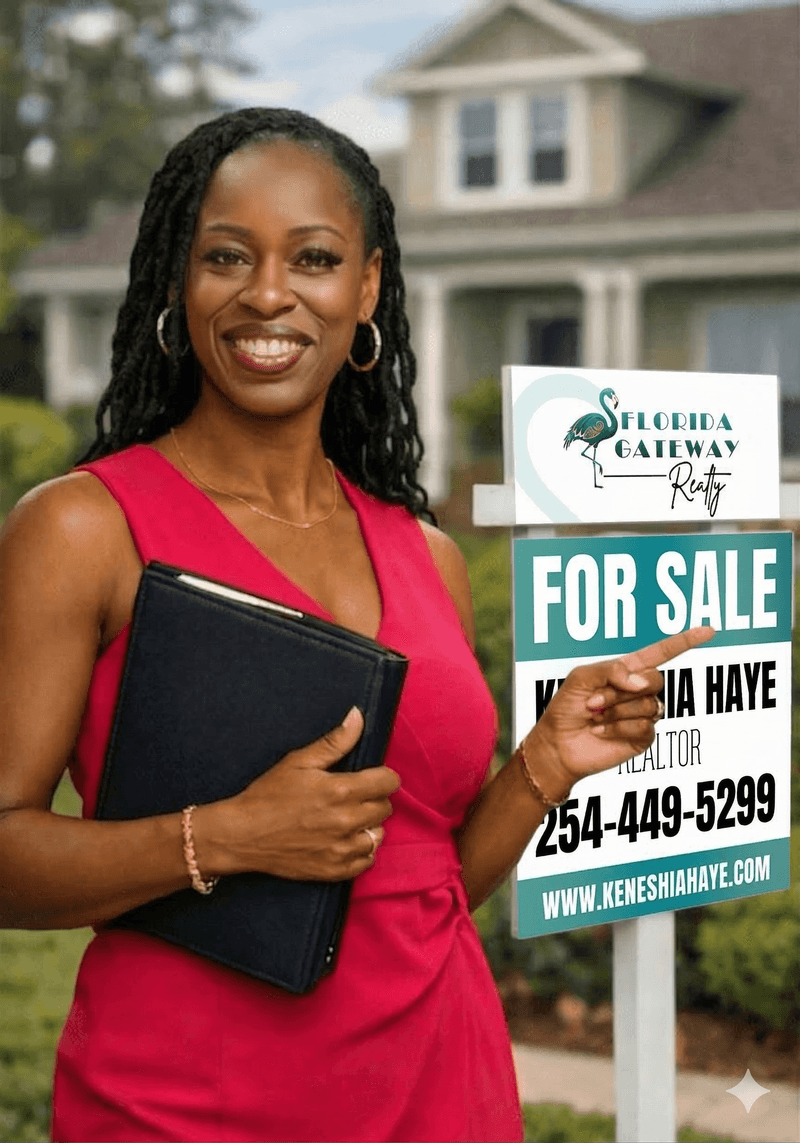
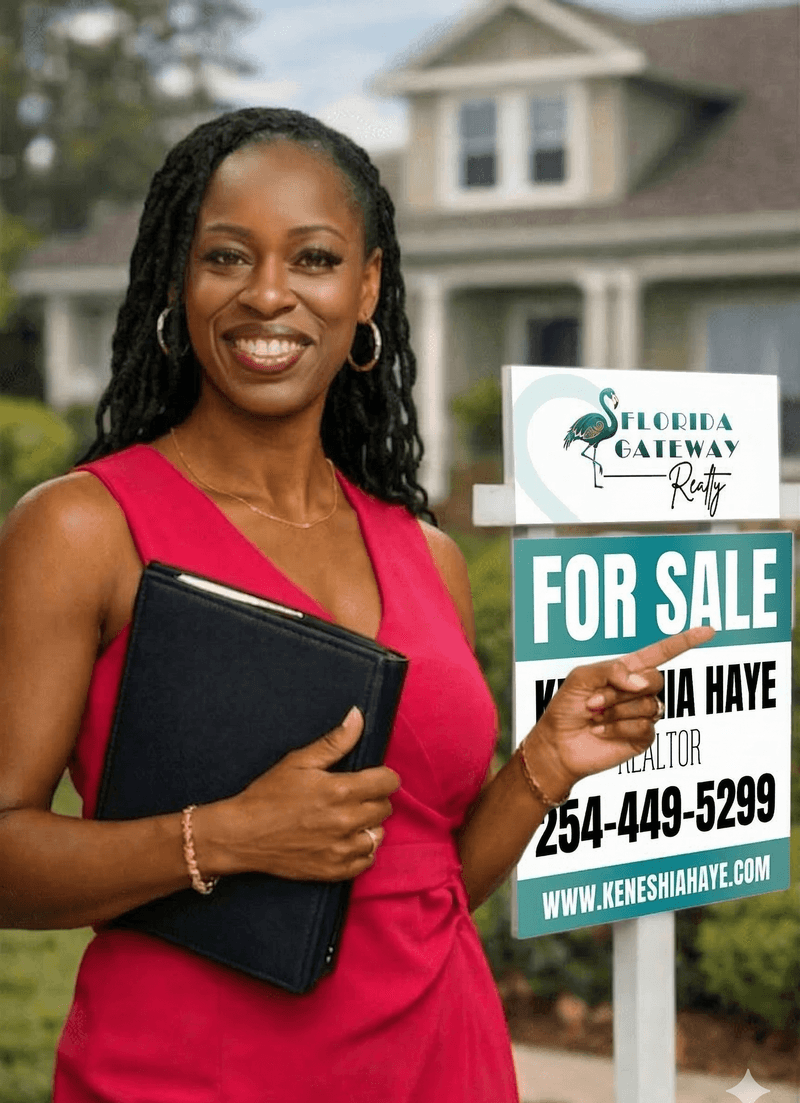
Crop sold-sign photo to remove Gemini watermark from bottom-right corner
Trimmed 40px from the bottom of keneshia-sold-sign.png (800x1143 → 800x1103),
updated height attributes and cache-bust query strings to v=2026031102.

diff --git a/blog/sell-your-home-fast-jacksonville.html b/blog/sell-your-home-fast-jacksonville.html
@@ -7,7 +7,7 @@
   <meta name="description" content="Proven strategies to sell your Jacksonville home quickly and for top dollar. Expert pricing, staging, and marketing tips from veteran REALTOR Keneshia Haye.">
   <meta property="og:title" content="How to Sell Your Home Fast in Jacksonville, FL (2026 Guide)">
   <meta property="og:description" content="Proven strategies to sell your Jacksonville home quickly and for top dollar in 2026.">
-  <meta property="og:image" content="https://keneshiahaye.com/images/keneshia-sold-sign.png?v=2026031101">
+  <meta property="og:image" content="https://keneshiahaye.com/images/keneshia-sold-sign.png?v=2026031102">
   <meta property="og:image:width" content="1200">
   <meta property="og:image:height" content="630">
   <meta property="og:image:alt" content="Keneshia Haye — How to Sell Your Home Fast in Jacksonville">
@@ -21,7 +21,7 @@
   <meta name="twitter:card" content="summary_large_image">
   <meta name="twitter:title" content="How to Sell Your Home Fast in Jacksonville, FL (2026 Guide)">
   <meta name="twitter:description" content="Proven strategies to sell your Jacksonville home quickly and for top dollar.">
-  <meta name="twitter:image" content="https://keneshiahaye.com/images/keneshia-sold-sign.png?v=2026031101">
+  <meta name="twitter:image" content="https://keneshiahaye.com/images/keneshia-sold-sign.png?v=2026031102">
   <link rel="canonical" href="https://keneshiahaye.com/blog/sell-your-home-fast-jacksonville.html">
   <link rel="icon" type="image/png" href="/favicon.png">
   <link rel="apple-touch-icon" href="/apple-touch-icon.png">
@@ -271,7 +271,7 @@
           <div class="lg:sticky lg:top-28 space-y-8">
             <div class="p-6 rounded-2xl glass border border-white/10">
               <div class="flex items-center gap-4 mb-4">
-                <img src="/images/keneshia-sold-sign.png?v=2026031101" alt="Keneshia Haye, REALTOR" class="w-16 h-16 rounded-full object-cover object-top border-2 border-champagne-400/30">
+                <img src="/images/keneshia-sold-sign.png?v=2026031102" alt="Keneshia Haye, REALTOR" class="w-16 h-16 rounded-full object-cover object-top border-2 border-champagne-400/30">
                 <div>
                   <p class="font-bold text-slate-900 dark:text-white">Keneshia Haye</p>
                   <p class="text-sm text-slate-500 dark:text-slate-400">REALTOR &middot; U.S. Veteran</p>

diff --git a/sell.html b/sell.html
@@ -18,7 +18,7 @@
   <meta name="twitter:card" content="summary_large_image">
   <meta name="twitter:title" content="Sell Your Home | Keneshia Haye Real Estate — Jacksonville, FL">
   <meta name="twitter:description" content="Strategic pricing, professional marketing, and expert negotiation for Jacksonville home sellers.">
-  <meta name="twitter:image" content="https://keneshiahaye.com/images/keneshia-sold-sign.png?v=2026031101">
+  <meta name="twitter:image" content="https://keneshiahaye.com/images/keneshia-sold-sign.png?v=2026031102">
   <link rel="canonical" href="https://keneshiahaye.com/sell.html">
   <link rel="icon" type="image/png" href="/favicon.png">
   <link rel="apple-touch-icon" href="/apple-touch-icon.png">  <link rel="preconnect" href="https://fonts.googleapis.com">
@@ -535,7 +535,7 @@ j=d.createElement(s),dl=l!='dataLayer'?'&l='+l:'';j.async=true;j.src=
         <!-- Left: Image -->
         <div class="reveal">
           <div class="relative rounded-2xl overflow-hidden shadow-2xl shadow-slate-200/50 dark:shadow-champagne-400/5">
-            <img src="images/keneshia-sold-sign.png?v=2026031101" alt="Keneshia Haye holding a sold sign after closing a home sale in Jacksonville, FL" width="800" height="1143" loading="lazy" class="w-full h-auto object-cover aspect-[4/5] sm:aspect-[3/4]">
+            <img src="images/keneshia-sold-sign.png?v=2026031102" alt="Keneshia Haye holding a sold sign after closing a home sale in Jacksonville, FL" width="800" height="1103" loading="lazy" class="w-full h-auto object-cover aspect-[4/5] sm:aspect-[3/4]">
             <div class="absolute inset-0 bg-gradient-to-t from-navy-500/40 via-transparent to-transparent"></div>
             <!-- Floating Badge -->
             <div class="absolute bottom-6 left-6 right-6 glass rounded-xl p-4">
